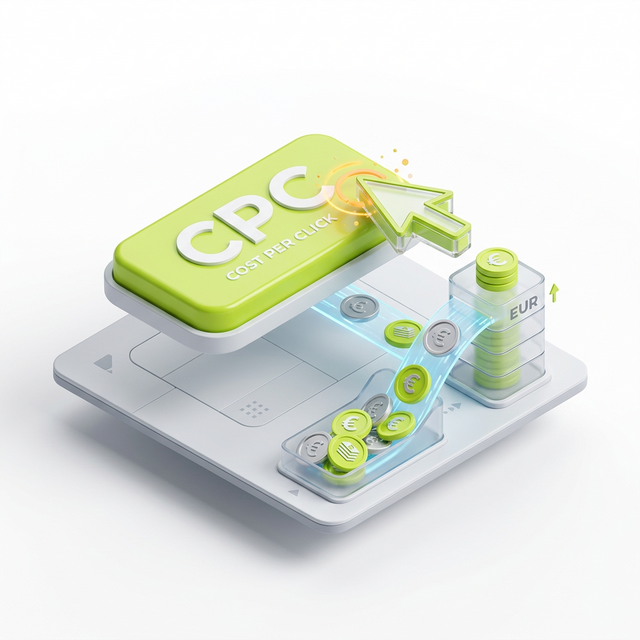
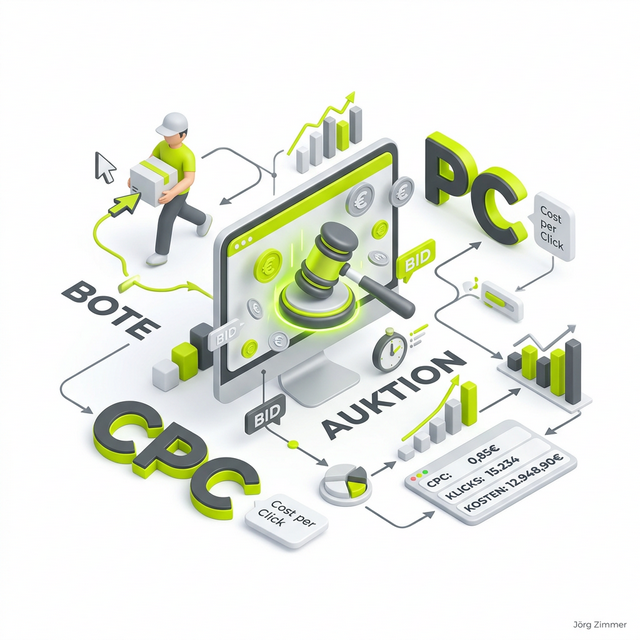
UI: Final glossary batch - 3D infographics and CTA layout cleanup

diff --git a/src/styles/global.css b/src/styles/global.css
@@ -184,7 +184,14 @@
 
 /* --- Glossar CTA Box Styling --- */
 .blog-cta-box {
-  @apply my-10 bg-gray-50 border border-gray-100 rounded-3xl p-8 text-center shadow-sm !important;
+  @apply my-16 bg-gray-50 border border-gray-100 rounded-3xl p-8 text-center shadow-sm !important;
+}
+
+.blog-cta-box h1,
+.blog-cta-box h2,
+.blog-cta-box h3,
+.blog-cta-box h4 {
+  @apply mt-0 !important;
 }
 
 .blog-cta-box hr {

diff --git a/src/content/glossar/money-keyword.md b/src/content/glossar/money-keyword.md
@@ -2,7 +2,8 @@
 title: "Money Keyword"
 description: "Money Keywords sind Begriffe mit einer klaren Kaufabsicht. Hier erfährst du, wie du die rentabelsten Begriffe für dein Business findest."
 date: "2026-03-10"
-image: "../../assets/images/glossar/3d-light/glossar-money-keyword-visual.webp"
+image: "../../assets/images/glossar/3d-light/glossar-money-keyword-3d.webp"
+image_alt: "Money Keyword 3D Infografik - Kaufabsicht und Umsatz"
 related_terms: ["keywoerter", "cpc", "conversion-rate"]
 key_takeaways:
   - "Kaufabsicht: Money Keywords haben eine transaktionale Intention (Kaufen, Buchen, Preis)."
@@ -16,6 +17,8 @@ faqs:
   - question: "Wie finde ich die besten Money Keywords für mein Business?"
     answer: "Verlass dich nicht nur auf klassische Keyword-Tools – die zeigen dir oft nur das Offensichtliche. Die besten Insights bekommst du aus deiner laufenden Google Ads Kampagne: Welche Suchbegriffe führen dort tatsächlich zu messbaren Conversions? Das sind deine echten Money Keywords. Analysiere das Wording deiner Kunden in Support-Mails oder Verkaufsgesprächen und schau in die Google Search Console, welche Queries aktuell den qualifiziertesten Traffic bringen."
 ---
+
+![Money Keyword 3D Infografik](../../assets/images/glossar/3d-light/glossar-money-keyword-3d.webp)
 
 Moin!
 
@@ -77,8 +80,6 @@ Dann muss deine Seite als autoritäre [Entität](/glossar/entitaet/) wahrgenomme
 Money Keywords sind der Treibstoff für dein Business. Hör auf, nach Eitelkeits-Metriken zu jagen. Ich nutze die [Wettbewerbsanalyse von SE Ranking](https://seranking.com/de/?ga=4169588&source=link), um genau die Begriffe mit hohem CPC und klarer Kaufabsicht zu finden, die deine Rechnungen bezahlen. Konzentrier dich auf Qualität, Relevanz und Vertrauen. Denn am Ende zählt nur, was unten rauskommt.
 
 ALOHA 🌻 
-
----
 
 <div class="blog-cta-box">
   <h3 class="text-2xl font-bold mb-4">Deine Keywords bringen keinen Umsatz?</h3>

diff --git a/src/content/glossar/schema-org-markup.md b/src/content/glossar/schema-org-markup.md
@@ -2,7 +2,8 @@
 title: "Schema.org Markup"
 description: "Schema.org ist der globale Standard für strukturierte Daten. Erfahre, wie du dieses mächtige SEO-Vokabular für deine Website nutzt."
 date: "2026-03-10"
-image: "../../assets/images/glossar/themes/glossar-theme-technical.webp"
+image: "../../assets/images/glossar/3d-light/glossar-schema-org-markup-3d.webp"
+image_alt: "Schema.org Markup 3D Infografik - Strukturierte Daten Visualisierung"
 related_terms: ["strukturierte-daten", "entity-seo", "knowledge-graph"]
 key_takeaways:
   - "Maschinen-Sprache: Schema.org ist das globale Vokabular, um Informationen für Suchmaschinen unmissverständlich zu machen."
@@ -16,6 +17,8 @@ faqs:
   - question: "Wie teste ich, ob mein Schema.org Markup fehlerfrei ist?"
     answer: "Google bietet zwei offizielle Tools: Den 'Rich Results Test' (Test für Rich-Suchergebnisse) und den 'Schema Markup Validator'. Der Rich Results Test zeigt dir, welche Rich Snippets möglich sind, der Validator prüft die technische Korrektheit. Tipp: Teste nach jeder Änderung! Auf teleschmie.de prüfe ich das bei jedem Deployment automatisch. Ein kleiner Syntaxfehler im JSON-LD und dein gesamtes Markup wird ignoriert."
 ---
+
+![Schema.org Markup 3D Infografik](../../assets/images/glossar/3d-light/glossar-schema-org-markup-3d.webp)
 
 Schema.org ist das Wörterbuch des Webs.
 Es ist eine Initiative der großen Player: Google, Bing, Yahoo und Yandex.
@@ -76,8 +79,6 @@ Und genau das ist es, was Google heute belohnt.
 Schema.org ist kein Trend. Es ist der Standard. Sprich die Sprache der Maschinen, um die Aufmerksamkeit der Menschen zu gewinnen. Nutze das volle Vokabular für deine Nische. Verknüpfe deine Daten zu einem starken Netz. Denn am Ende gewinnt der, der die klarsten Antworten liefert.
 
 ALOHA 🌻 
-
----
 
 <div class="blog-cta-box">
   <h3 class="text-2xl font-bold mb-4">Ist deine Website für Google noch 'stumm'?</h3>

diff --git a/src/content/glossar/keyword-tool.md b/src/content/glossar/keyword-tool.md
@@ -2,7 +2,8 @@
 title: "Keyword Tool (SE Ranking & Co.)"
 description: "Ein Keyword Tool hilft dir, Suchbegriffe zu finden, zu analysieren und zu bewerten. Ohne Tool ist modernes SEO unmöglich."
 date: "2026-03-10"
-image: "../../assets/images/glossar/themes/glossar-theme-ai-geo.webp"
+image: "../../assets/images/glossar/3d-light/glossar-keyword-tool-3d.webp"
+image_alt: "Keyword Tool 3D Infografik - Suchvolumen und Ranking Analyse"
 related_terms: ["keywordrecherche", "keywoerter", "suchvolumen"]
 key_takeaways:
   - "Datengold: Tools liefern dir Suchvolumen, Konkurrenzstärke und Klickpreise (CPC) auf Knopfdruck."
@@ -16,6 +17,8 @@ faqs:
   - question: "Lohnt sich die Investition? Gute Tools kosten schließlich viel Geld."
     answer: "Wer auf professionellem Niveau SEO betreiben will, kommt um bezahlte SaaS-Lösungen nicht herum. Hochwertige Einsteiger-Lizenzen (z.B. bei SE Ranking oder Ahrefs) liegen meist zwischen 50 und 150 Euro im Monat. Betrachte diese Ausgaben nicht als lästiges Software-Abo, sondern als deine wichtigste analytische Versicherung: Diese Kosten machen sich meist schon durch eine einzige vermiedene, monatelange Fehlinvestition in das komplett falsche Keyword bezahlt."
 ---
+
+![Keyword Tool 3D Infografik](../../assets/images/glossar/3d-light/glossar-keyword-tool-3d.webp)
 
 Moin!
 
@@ -67,8 +70,6 @@ In meinen Strategien nutze ich KI-Bots, um semantische Nischen zu finden, die kl
 Ein Keyword Tool ist dein Auge in der digitalen Welt. Es verwandelt Raten in Wissen. Aber vergiss niemals: Ein Tool ist nur ein Hammer. Das Haus bauen musst du selbst. Lerne die Daten zu interpretieren, verstehe die psychologische Absicht hinter der Suche und bau darauf deine unschlagbare Sichtbarkeit auf.
 
 ALOHA 🌻 
-
----
 
 <div class="blog-cta-box">
   <h3 class="text-2xl font-bold mb-4">Du suchst nach den falschen Keywords?</h3>

diff --git a/src/content/glossar/cpc.md b/src/content/glossar/cpc.md
@@ -2,7 +2,8 @@
 title: "CPC (Cost per Click)"
 description: "CPC gibt an, wie viel du für einen Klick auf eine Werbeanzeige bei Google Ads bezahlst. Ein wichtiger Indikator für Keyword-Wertigkeit."
 date: "2026-03-10"
-image: "../../assets/images/glossar/themes/glossar-theme-ai-geo.webp"
+image: "../../assets/images/glossar/3d-light/glossar-cpc-3d.webp"
+image_alt: "CPC (Cost per Click) 3D Infografik - Marktwert von Keywords"
 related_terms: ["keywoerter", "money-keyword", "conversion-rate"]
 key_takeaways:
   - "Marktwert-Indikator: Der CPC zeigt dir, wie viel Wettbewerber bereit sind, für einen Klick zu zahlen."
@@ -16,6 +17,8 @@ faqs:
   - question: "Kann man den CPC durch SEO-Maßnahmen wirklich sparen?"
     answer: "Absolut! Das ist das Kerngeschäft meiner 'SEO-Strategie'. Wenn wir ein Keyword organisch in die Top-Rankings schieben, sinkt der Druck auf dein Google Ads Budget. Du kannst entweder die teuren Anzeigen ganz abschalten oder das gesparte Geld in noch tiefergehende Kampagnen investieren. SEO macht dich unabhängig von den Preisdiktaten Googles."
 ---
+
+![CPC (Cost per Click) 3D Infografik](../../assets/images/glossar/3d-light/glossar-cpc-3d.webp)
 
 CPC steht für Cost per Click.
 Oder auf Deutsch: Wie viel wandert pro Klick von deinem Konto zu Google?

diff --git a/src/content/glossar/linkjuice.md b/src/content/glossar/linkjuice.md
@@ -89,8 +89,6 @@ Das bedeutet: Zukünftig wird es immer weniger wichtig sein, *woher* der harte H
 
 ALOHA 🌻 
 
----
-
 <div class="blog-cta-box">
   <h3 class="text-2xl font-bold mb-4">Verschenkst du wertvollen Linkjuice?</h3>
   <p class="mb-6">Ich zeige dir, wie du deine interne Kraft verdoppelst und externe Autorität aufbaust. Mit <a href="https://seranking.com/de/?ga=4169588&source=link" target="_blank" rel="noopener noreferrer">SE Ranking</a> finden wir deine Power-Pages.</p>
